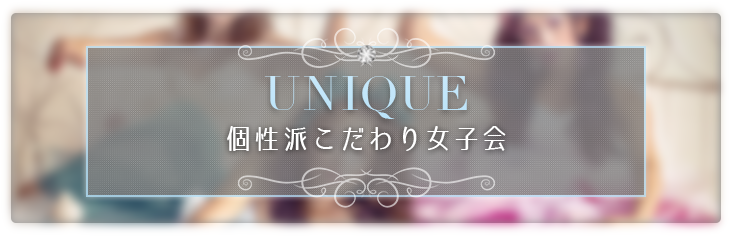
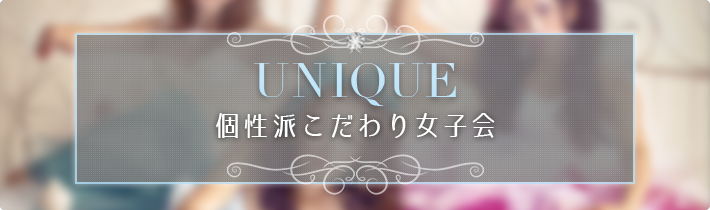
add

diff --git a/girlsparty/index04.html b/girlsparty/index04.html
@@ -18,7 +18,7 @@
     <div id="contents">
         <div id="more">さらに条件をしぼる ＞</div>
         <img src="img/girls.png" alt="" class="girls">
-        <img src="img/unique.png" alt="" class="uique">
+        <img src="img/unique.png" alt="" class="unique">
         <img src="img/lady.png" alt="" class="lady">
         <img src="img/cute.png" alt="" class="cute">
         <img src="img/homeparty.png" alt="" class="homeparty">

diff --git a/girlsparty/css/style04.css b/girlsparty/css/style04.css
@@ -2,7 +2,6 @@ body{
     color: #666666;
     font-family: "Hiragino Kaku Gothic ProN" , "游ゴシック" , "Yu Gothic" , "メイリオ", Helvetica, Arial, sans-serif;
     background: #fff;
-    background-repeat: repeat-y;
 }
 
 img{
